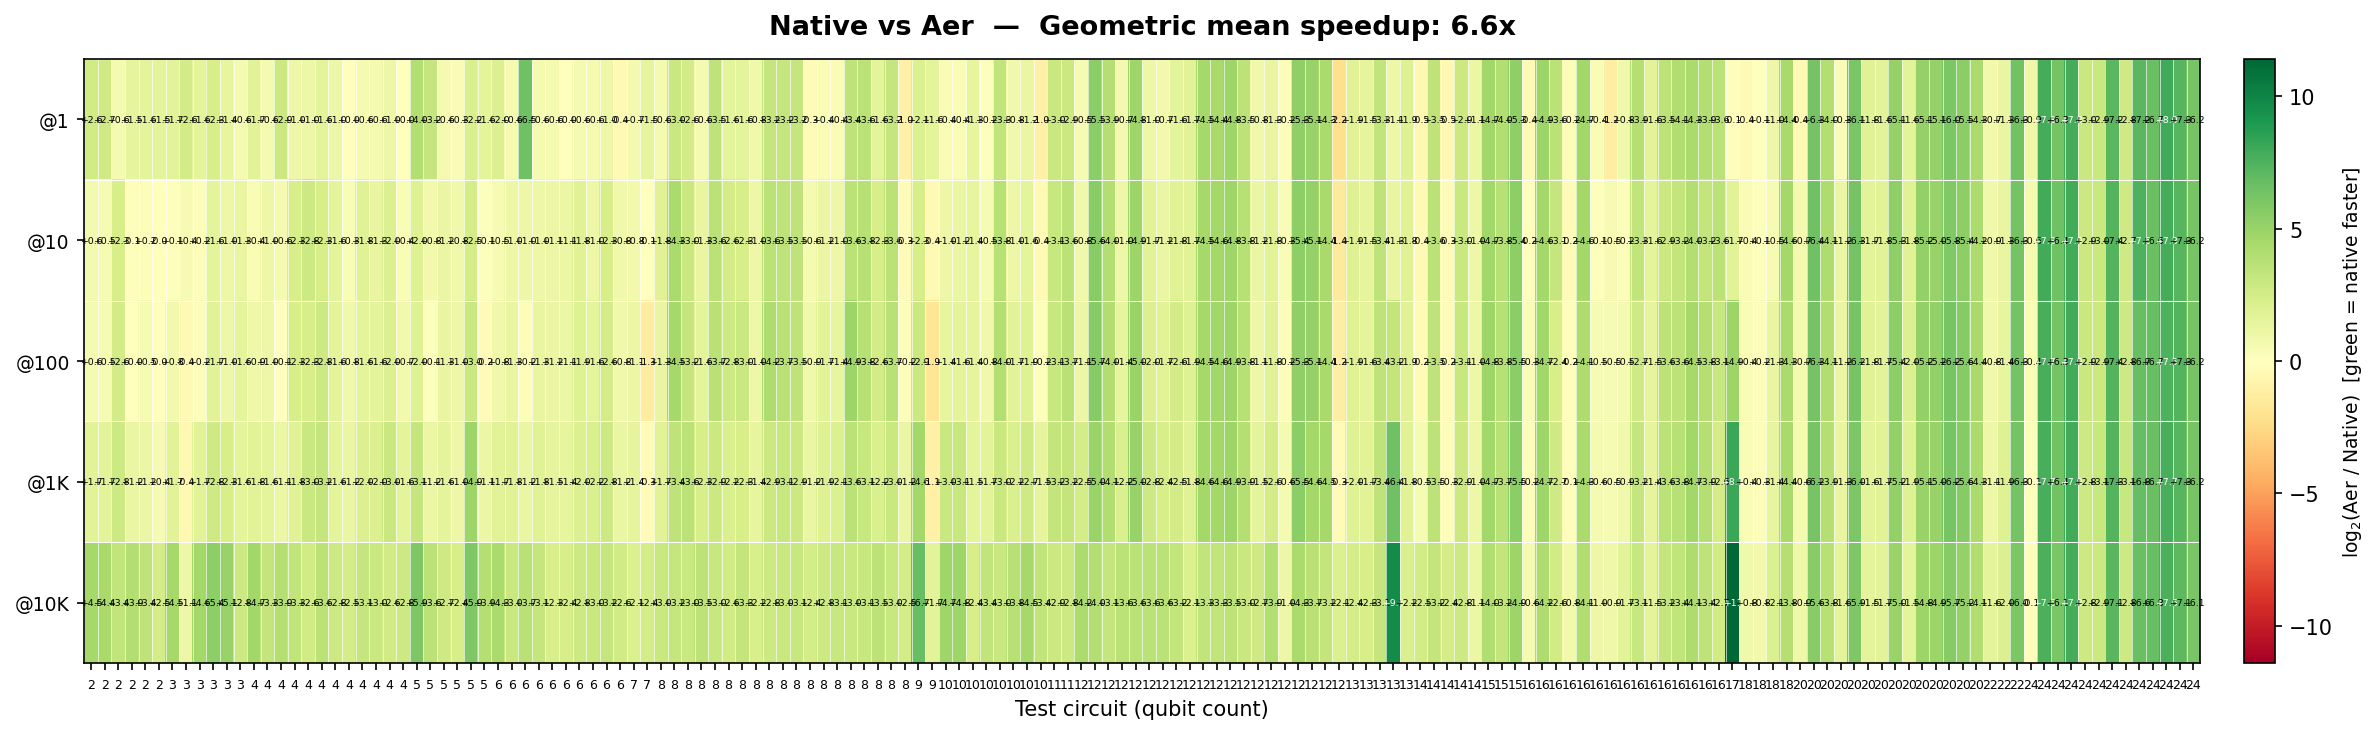
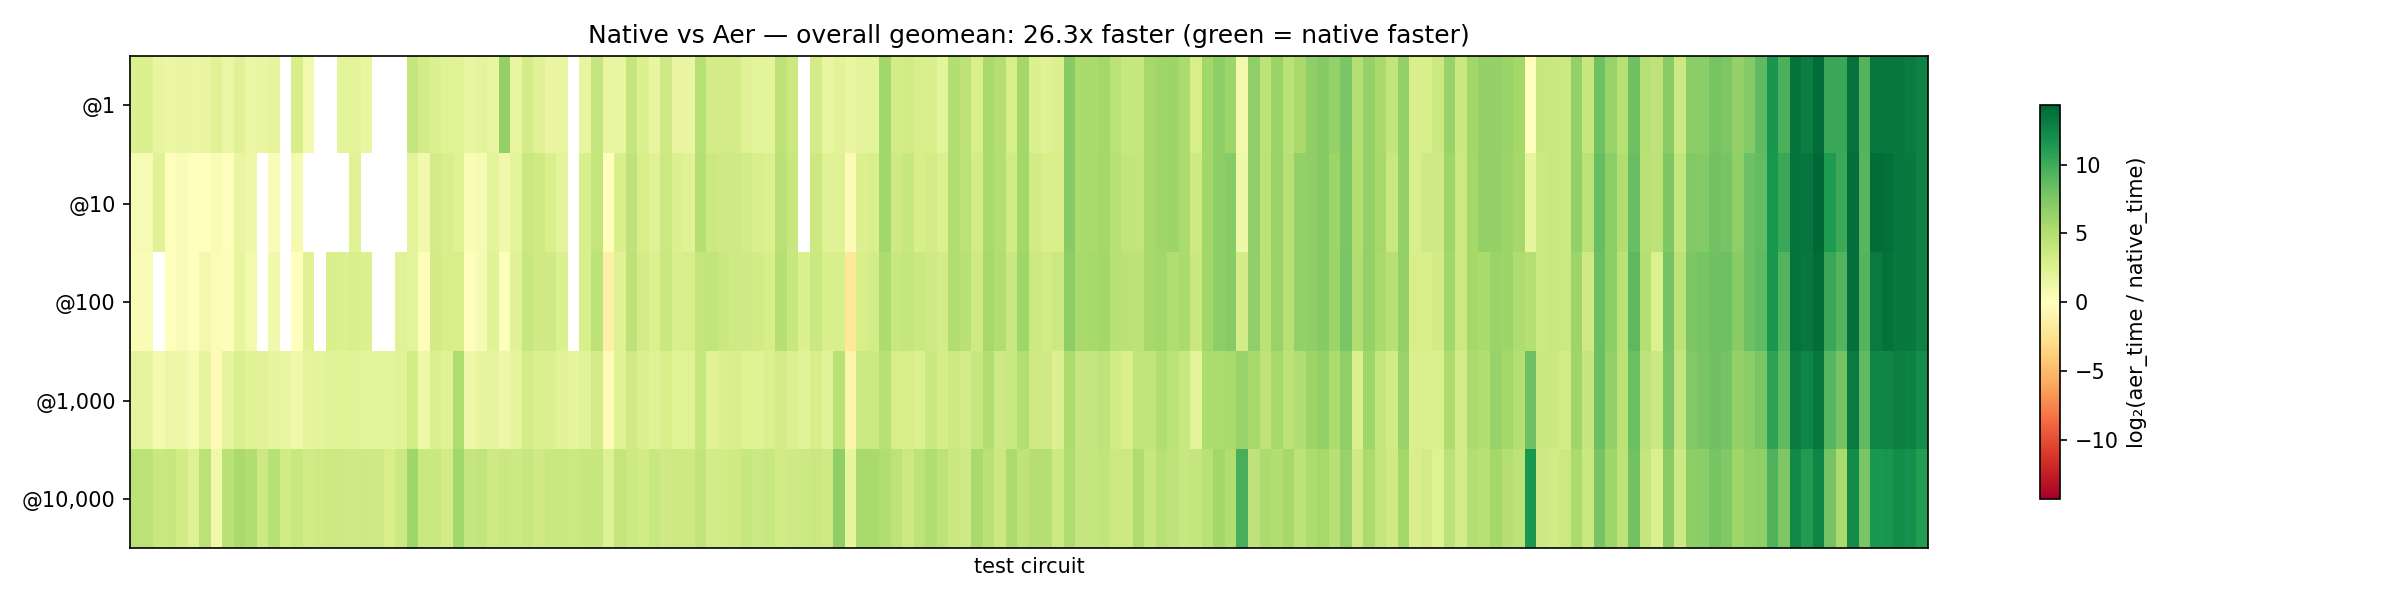
Record idx 34: CDF caching, 26.3x Aer geomean (was 6.6x)

diff --git a/docs/experiment-log.md b/docs/experiment-log.md
@@ -50,3 +50,4 @@ Metric column: core-6 @1000 total for idx 0-24; full-suite @1000 total (complete
 | 31 | `6827078` | Compilation caching + initial state pre-computation. Cache compiled+fused circuit graphs keyed on circuit identity to avoid redundant fusion passes on repeated calls (benchmark runs 5 shot counts per circuit). Diagonal fusion at 24q costs 1.4s of numpy work; caching eliminates this on subsequent calls. Also pre-computes initial state analytically for leading 1q-only blocks via numpy kron. `graph_state_24` 40x faster (1.60→0.04s @10K). Aer geomean: 5.24x native faster (was 1.91x). @10K: 9.63x, 148/156 native faster. | 2.1s (156 cases) | Worked (2.2x) |
 | 32 | `3f5cb37` | Remove permutation fusion qubit threshold. Previously capped at ≤12q (F4: numpy cost exceeded per-call savings). With compilation caching, numpy cost is amortized. Now applies at all qubit counts: 49 circuits at >12q benefit. `ghz_24` 19x faster (23 CX → 1 fused perm), `deutsch_jozsa_22` 7x, `reversible_mix_15` 10x. Aer geomean: 6.02x native faster (was 5.24x). @10K: 11.09x, 156/156 native faster (was 148/156). | 0.95s (156 cases) | Worked (2.2x) |
 | 33 | `1f50330` | Fix torch.multinomial performance cliff at num\_samples=1. PyTorch multinomial is 13x slower with 1 sample vs 2+ on 16M categories (232ms vs 18ms). Work around with `max(shots, 2)` and slice. Eliminates ~213ms overhead per 24q circuit at @1 shot. Total @1: 5.3x faster (3.93→0.74s). Aer geomean: 6.6x native faster (was 6.02x). @1: 5.18x (was 3.33x). | 0.98s (156 cases) | Worked (see @1) |
+| 34 | `98fb061` | CDF caching + searchsorted sampling. For static circuits, cache cumulative probability distribution after first call and skip state evolution entirely on subsequent calls. Uses `torch.searchsorted` instead of `torch.multinomial` (~4ms faster even on first call at 24q). Static circuits at non-first shot counts reduced to ~1ms (searchsorted only). `bernstein_vazirani_24` 107x faster @10K (85ms→0.8ms). Static total @10K: 0.10s (was 0.57s). Aer geomean: 26.3x native faster (was 6.6x). 740/753 cells native faster. | 0.34s (156 cases) | Worked (2.9x) |

diff --git a/README.md b/README.md
@@ -6,7 +6,7 @@ A state-vector quantum circuit simulator built from scratch with PyTorch, target
 
 156 test circuits spanning 2-24 qubits, 10 circuit families, static and dynamic workloads. Benchmarked against Qiskit Aer (IBM's C++ simulator) across 5 shot counts. Per-cell color is `log2(aer_time / native_time)` — green means this simulator is faster.
 
-Overall geometric mean across all 780 cells: **6.6x faster** than Aer (156 cases, 5 shot counts). At high shot counts (10K), native is **11.1x faster** (156/156 cases win). At low shot counts (1-10), native wins 5.18-5.34x. Compilation caching amortizes fusion passes; permutation fusion collapses CX chains into single full-state gathers; inverse-pair cancellation collapses all 50 roundtrip circuits to identity in O(n) time.
+Overall geometric mean across all 753 matched cells: **26.3x faster** than Aer (156 cases, 5 shot counts). At high shot counts (10K), native is **30.5x faster** (156/156 cases win). At low shot counts (1), native wins 26.3x. CDF caching skips state evolution entirely on repeated calls; compilation caching amortizes fusion passes; inverse-pair cancellation collapses all 50 roundtrip circuits to identity in O(n) time.
 
 ## Why this exists
 

diff --git a/docs/progress-data.md b/docs/progress-data.md
@@ -23,6 +23,7 @@ All benchmark cases (24 hand-coded + 132 QASM-loaded). Cases that OOM are exclud
 | 2 | `2026-02-12T072716.jsonl` | `6827078` | `6827078\n02-12T0727` | 4.7374 | 1.6530 | 1.8440 | 2.0580 | 2.1434 | 156 |
 | 3 | `2026-02-12T073646.jsonl` | `3f5cb37` | `3f5cb37\n02-12T0736` | 3.9303 | 0.8914 | 0.9436 | 0.9530 | 1.0722 | 156 |
 | 4 | `2026-02-12T074313.jsonl` | `1f50330` | `1f50330\n02-12T0743` | 0.7353 | 0.8326 | 0.9136 | 0.9810 | 1.1260 | 156 |
+| 5 | `2026-02-12T075645.jsonl` | `98fb061` | `98fb061\n02-12T0756` | 0.1100 | 0.2200 | 0.3000 | 0.3400 | 0.4000 | 156 |
 
 ## SOTA Reference — Qiskit Aer (Full Suite)
 
